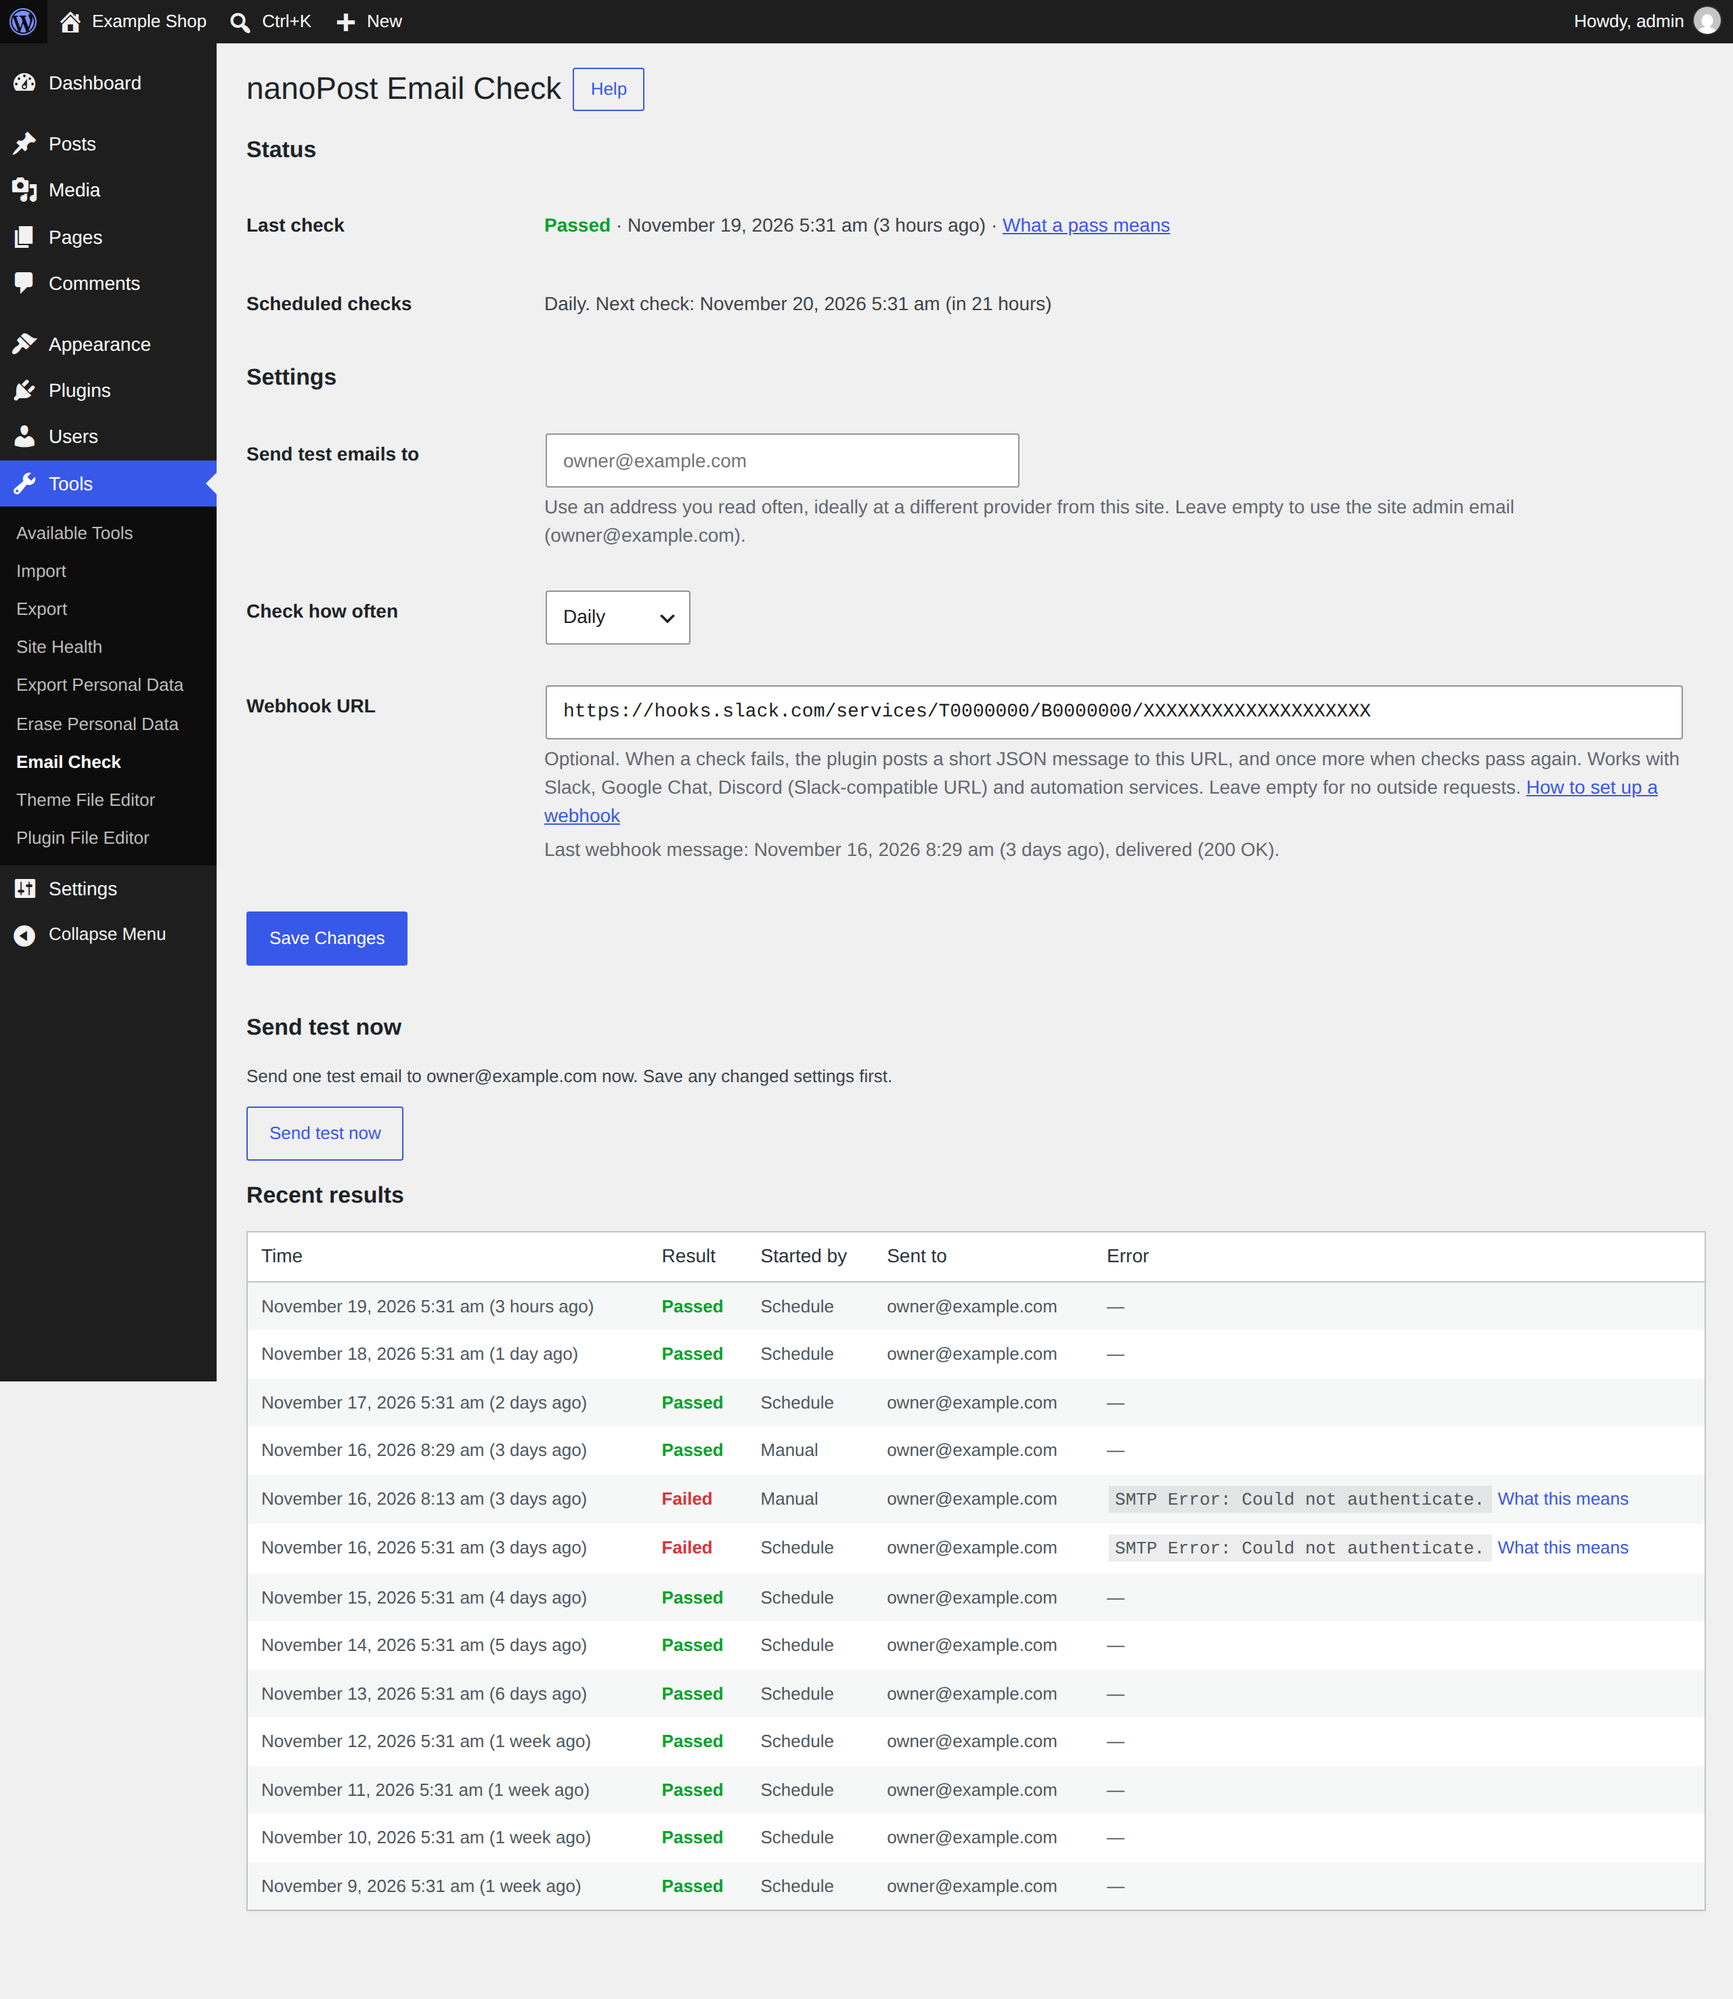
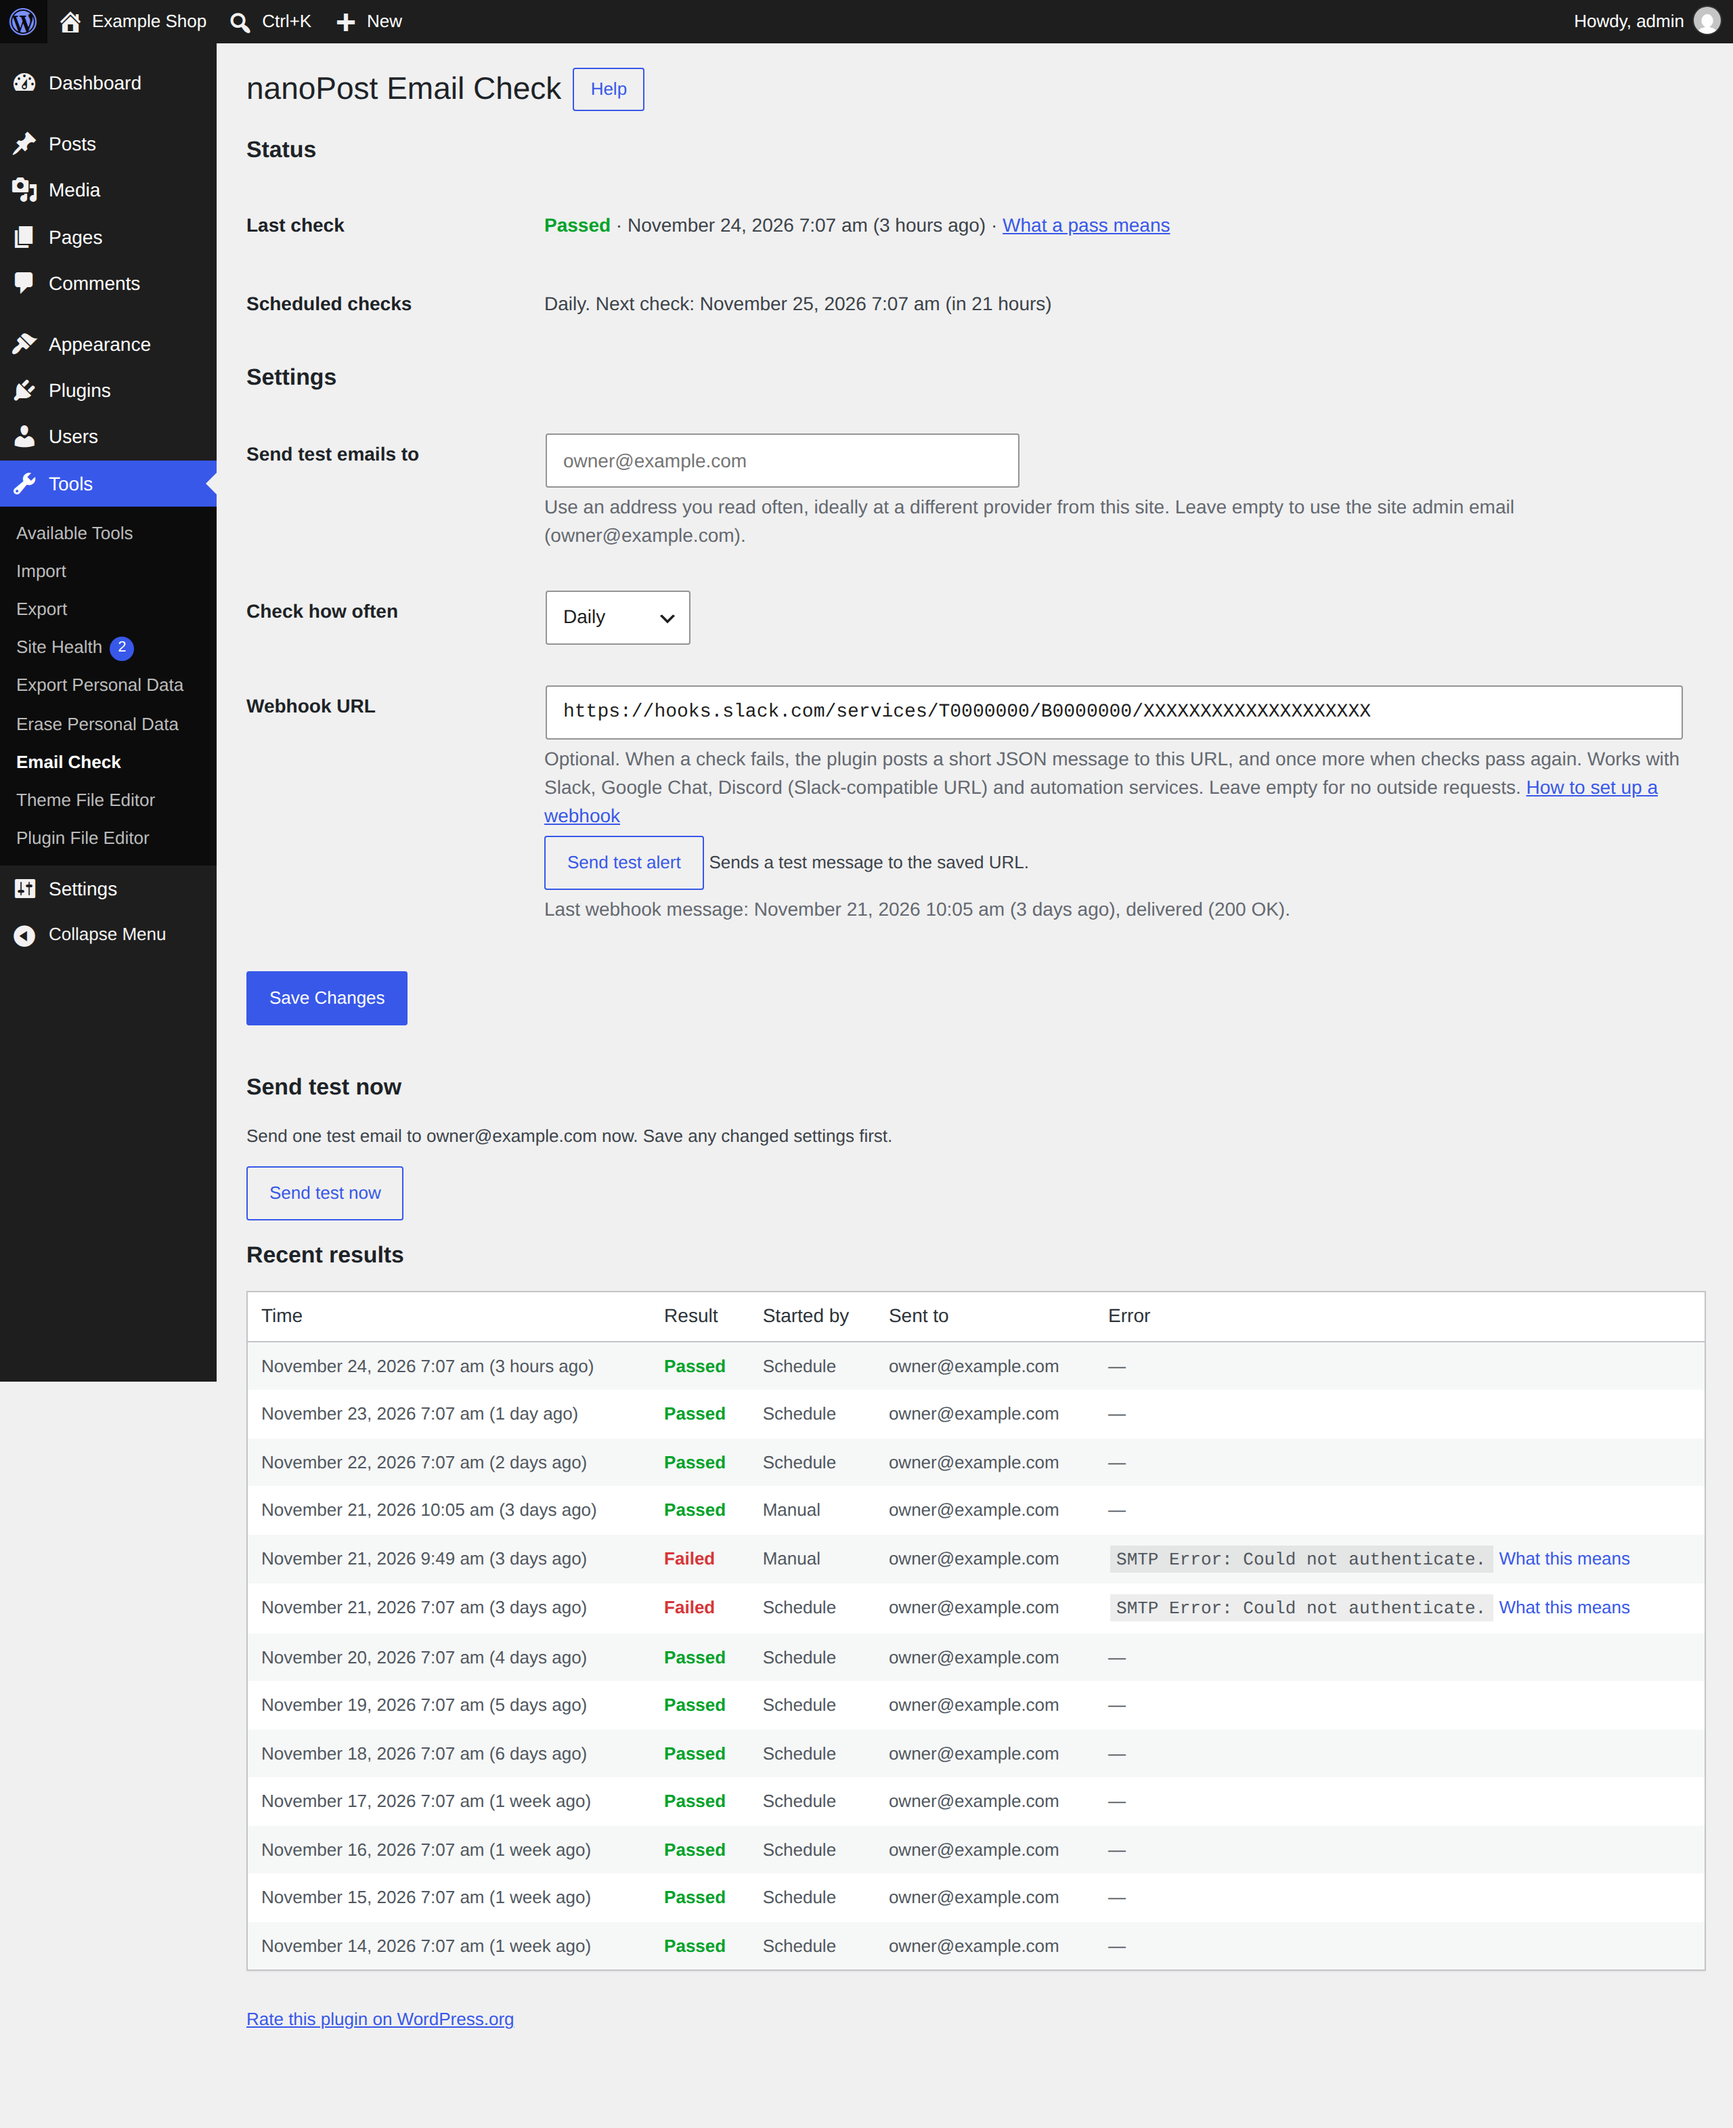
Version 1.2.0

diff --git a/nanopost-email-check.php b/nanopost-email-check.php
@@ -3,7 +3,7 @@
  * Plugin Name:       nanoPost Email Check
  * Plugin URI:        https://nanopo.st/email-check-plugin/
  * Description:       Check that your site can still send email. Sends a scheduled test email, logs each result and warns you when a check fails.
- * Version:           1.1.0
+ * Version:           1.2.0
  * Requires at least: 6.4
  * Requires PHP:      7.4
  * Author:            nanoPost
@@ -17,7 +17,7 @@
 
 defined( 'ABSPATH' ) || exit;
 
-define( 'NANOPOST_EMAIL_CHECK_VERSION', '1.1.0' );
+define( 'NANOPOST_EMAIL_CHECK_VERSION', '1.2.0' );
 define( 'NANOPOST_EMAIL_CHECK_FILE', __FILE__ );
 define( 'NANOPOST_EMAIL_CHECK_DIR', plugin_dir_path( __FILE__ ) );
 
